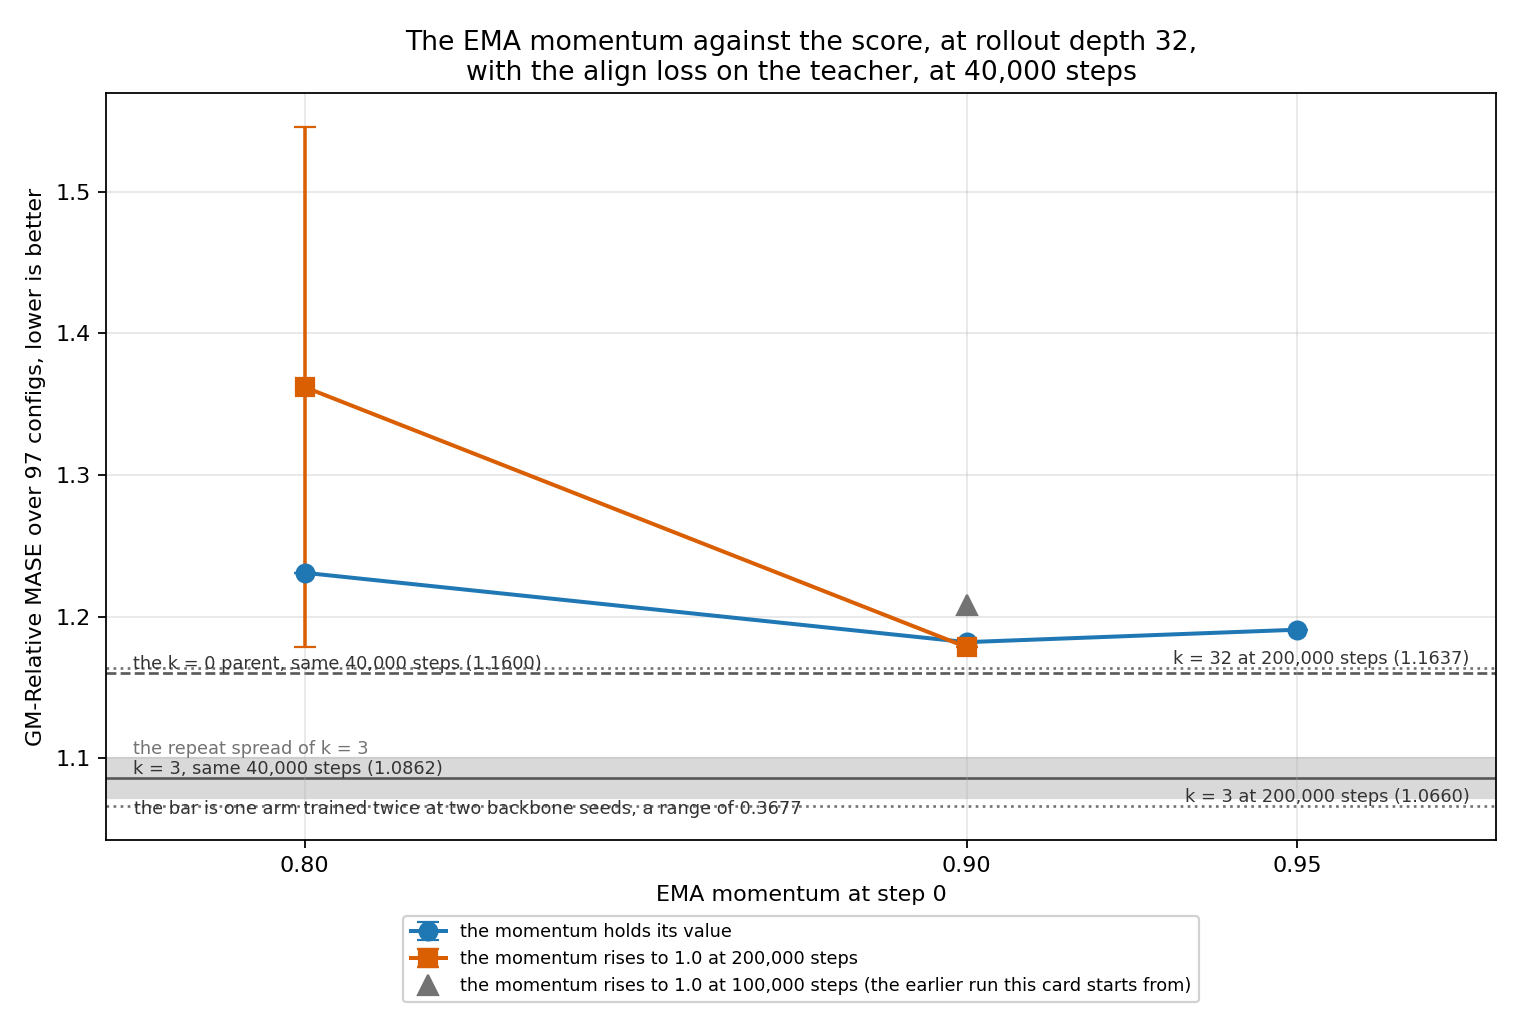
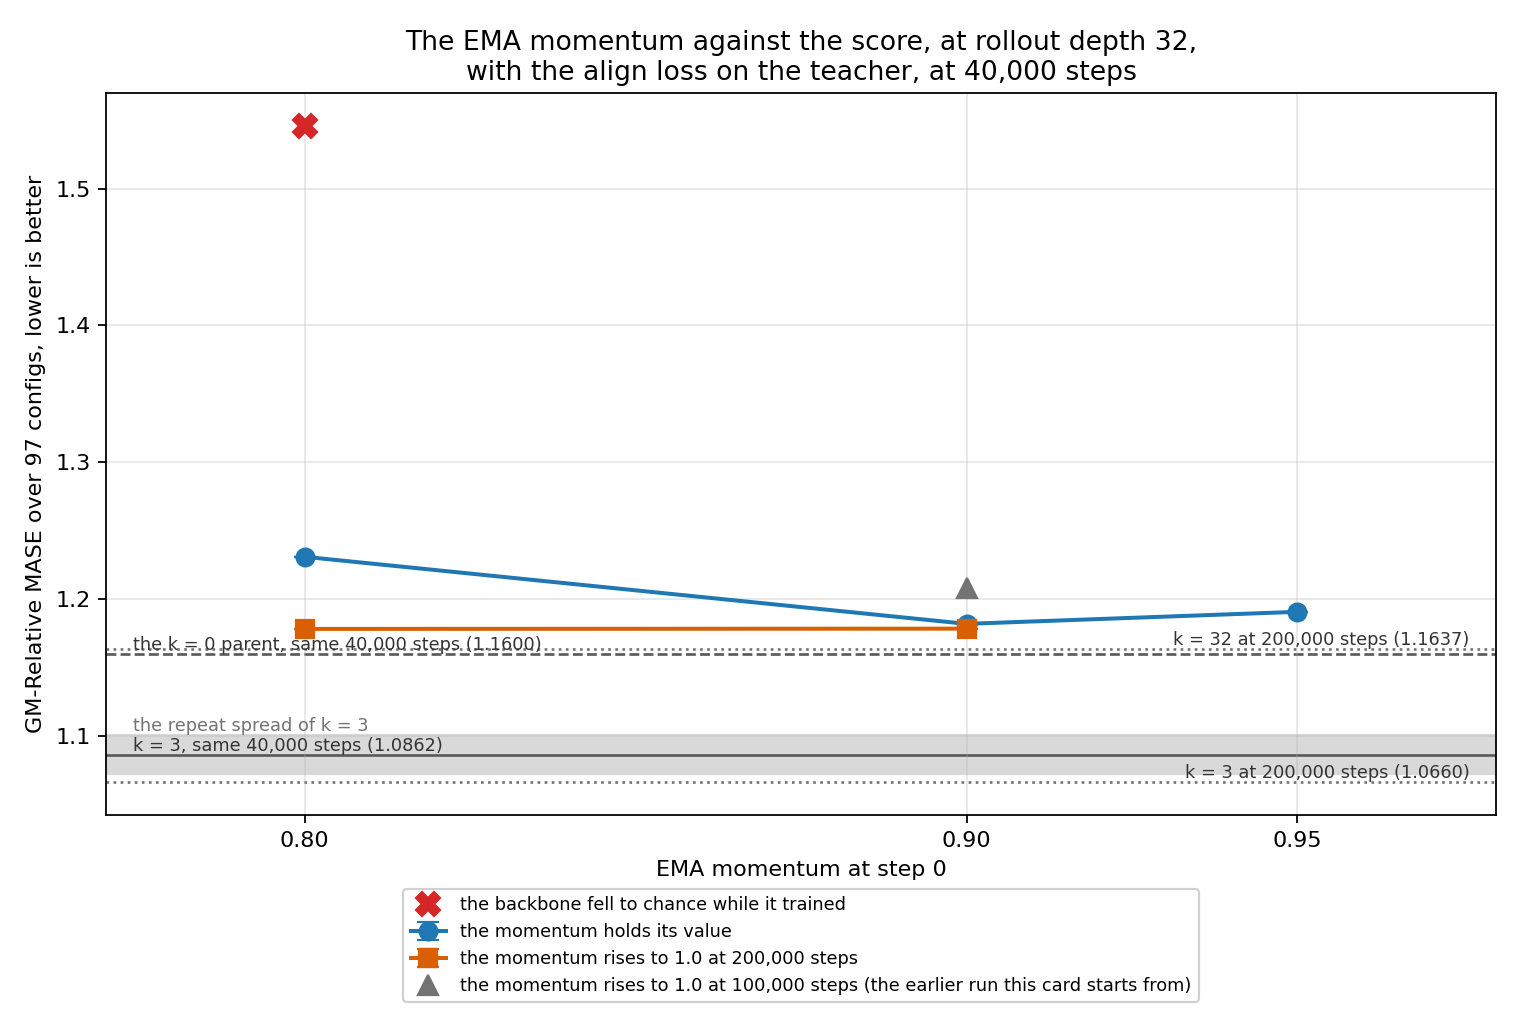
plot(#404): a collapsed run leaves the momentum mean and the spread bar
One backbone of this card fell to chance while it trained. Its score says what
a dead backbone scores, not what its momentum is worth. Inside the mean it
moved a marker, and inside the bar it stretched the spread over every arm.

It now takes a red X off the line, and the bar is drawn from the seeds that
survived. The note under the bar counts the same seeds the bar holds.

The execution log carries round 4: why the round exists, the offer pool that
decided the machine, and what every reader had to learn.

diff --git a/reports/2026-08-19_ema_momentum_k32/scripts/plot_momentum.py b/reports/2026-08-19_ema_momentum_k32/scripts/plot_momentum.py
@@ -9,9 +9,16 @@ square raises it to 1.0 at 200,000 steps.
 A line joins the arms of one schedule, because the momentum is a continuous
 axis and the reader follows the direction.
 
-Two arms that share a momentum and a schedule are a repeat pair. The figure
-draws their mean, and a vertical bar over the two scores. That bar is the
+Two or more arms that share a momentum and a schedule are a repeat family. The
+figure draws their mean, and a vertical bar over their scores. That bar is the
 run-to-run spread this card measures for itself.
+
+A COLLAPSED ARM IS NOT PART OF THAT BAR. One backbone of this card fell to
+chance while it trained, and its score says what a dead backbone scores, not
+what its momentum is worth. Inside the mean it would move a marker, and inside
+the bar it would stretch the spread over every other arm. So it takes its own
+red marker, off the line, and `--sync-root` is what tells the two apart.
+`seed_report.py` holds the study's one definition of a collapse.
 
 The reference lines carry their own text inside the axes. The legend then
 holds the arms alone.
@@ -44,6 +51,7 @@ def _load(name, filename):
 
 REF = _load("cf404_refs", "references.py")
 REPEAT = _load("cf404_repeat", "repeat_spread.py")
+SEEDS = _load("cf404_seeds", "seed_report.py")
 
 # One colour and one marker per schedule. Two schedules, so two of each.
 STYLE = {
@@ -59,6 +67,11 @@ EARLIER = {"colour": "0.45", "marker": "^",
            "label": "the momentum rises to 1.0 at 100,000 steps "
                     "(the earlier run this card starts from)"}
 
+# The arm whose backbone fell to chance. Red, off the line, and out of every
+# mean and every bar.
+FELL = {"colour": "#d62728", "marker": "X",
+        "label": "the backbone fell to chance while it trained"}
+
 
 def read_scores(path) -> list[dict]:
     """The rows of scores.csv, typed. `ramp` is 0 for a held momentum."""
@@ -70,6 +83,7 @@ def read_scores(path) -> list[dict]:
             rows.append({"arm": r["arm"], "alpha": float(r["alpha"]),
                          "schedule": r.get("schedule", "fixed"),
                          "ramp": int(float(r.get("ramp") or 0)),
+                         "seed": r.get("seed", ""),
                          "score": float(r["score"])})
     return sorted(rows, key=lambda r: (r["schedule"], r["alpha"]))
 
@@ -135,13 +149,18 @@ def draw_references(ax, x_lo, x_hi):
             fontsize=8, color="0.45", va="bottom", ha="left", zorder=4)
 
 
-def draw(rows, out):
+def draw(rows, out, fell=()):
     fig, ax = plt.subplots(figsize=(9.5, 6.4))
-    alphas = [r["alpha"] for r in rows] + [REF.K32_BB40K_ALPHA]
+    alphas = [r["alpha"] for r in rows] + [r["alpha"] for r in fell] \
+        + [REF.K32_BB40K_ALPHA]
     x_lo, x_hi = min(alphas) - 0.03, max(alphas) + 0.03
     draw_references(ax, x_lo, x_hi)
     for schedule in ("fixed", "ramp"):
         draw_series(ax, rows, schedule)
+    if fell:
+        ax.plot([r["alpha"] for r in fell], [r["score"] for r in fell],
+                linestyle="none", marker=FELL["marker"], markersize=11,
+                color=FELL["colour"], zorder=4, label=FELL["label"])
     ax.plot([REF.K32_BB40K_ALPHA], [REF.K32_BB40K], linestyle="none",
             marker=EARLIER["marker"], markersize=9, color=EARLIER["colour"],
             zorder=3, label=EARLIER["label"])
@@ -164,20 +183,23 @@ def draw(rows, out):
     fig.tight_layout()
     Path(out).parent.mkdir(parents=True, exist_ok=True)
     fig.savefig(out, dpi=160)
-    print(f"wrote {out} — {len(rows)} arm(s)")
+    print(f"wrote {out} — {len(rows)} arm(s), {len(fell)} collapsed")
     return fig, ax
 
 
 def pair_note(ax, rows):
-    """One line naming the measured repeat spread, when a pair exists."""
-    pairs = REPEAT.pairs(rows)
-    if not pairs:
+    """One line naming the measured repeat spread, when a family exists.
+
+    The number is the range of the bar the reader sees, so it is measured over
+    the same rows the bar is drawn from.
+    """
+    fam = SEEDS.family(rows)
+    d = SEEDS.spread(fam)
+    if d is None:
         return
-    a, b = pairs[0]
-    gap = abs(a["score"] - b["score"])
     ax.text(0.02, 0.03,
-            f"the bar is one arm trained twice at two backbone seeds, "
-            f"a range of {gap:.4f}",
+            f"the bar is one arm trained {len(fam)} times at {len(fam)} "
+            f"backbone seeds, a range of {d:.4f}",
             transform=ax.transAxes, fontsize=8, color="0.20", va="bottom")
 
 
@@ -185,10 +207,22 @@ def main(argv=None):
     p = argparse.ArgumentParser()
     p.add_argument("--scores", required=True)
     p.add_argument("--out", required=True)
+    p.add_argument("--sync-root",
+                   help="the sync tree, to read each arm's contrastive AUC")
+    p.add_argument("--stop", type=int, default=40000)
     args = p.parse_args(argv)
     if not Path(args.scores).is_file():
         raise SystemExit(f"ABORT: no scores table at {args.scores}")
-    draw(read_scores(args.scores), args.out)
+    rows = read_scores(args.scores)
+    fell = []
+    if args.sync_root:
+        root = Path(args.sync_root).expanduser()
+        alive = []
+        for r in rows:
+            auc = SEEDS.auc_at(root, r["arm"], args.stop)
+            (fell if SEEDS.collapsed(auc) else alive).append(r)
+        rows = alive
+    draw(rows, args.out, fell)
     return 0
 
 

diff --git a/reports/2026-08-19_ema_momentum_k32/EXECUTION_LOG.md b/reports/2026-08-19_ema_momentum_k32/EXECUTION_LOG.md
@@ -326,3 +326,91 @@ for: does that spread separate the constant 0.90 arm from the constant 0.95
 arm? `repeat_spread.separation` reads both arms out of `scores.csv` and
 compares their gap against the spread. The test is strict, so a gap equal to
 the spread does not separate.
+
+## Round 4 — four backbone seeds of one arm
+
+### Why the round exists
+
+`s08b` was meant to measure this cell's run-to-run spread. It measured a
+COLLAPSE instead. Its contrastive AUC went 0.91 at 10,000 steps to 0.84, 0.67
+and 0.57 at 40,000. Its top1 went 0.273 to 0.009 and its gap_ratio went 0.772
+to 1.007. Its `ema_tau` trajectory matches `s08` exactly, so the schedule
+reached the trainer, and its eval covered all 97 configs. The arm trained the
+right cell and the backbone died inside it.
+
+Every other arm is stable, AUC 0.93 to 0.98 at 40,000 steps, and all five carry
+backbone seed 20260520. One seed collapsed. Two readings fit that:
+
+  - 20260521 was unlucky, and a collapse here is rare, or
+  - 20260520 was lucky, and this cell is unstable.
+
+Under the second reading every ranking of this card rests on one seed. Two more
+seeds of the SAME arm tell the two apart: `s08c` at 20260522 and `s08d` at
+20260523. Every other flag is `s08`'s.
+
+### The machine, and why it carries one card
+
+The card asks for ONE box with TWO cards, a datacenter host at reliability 0.99
+or better, and a DESKTOP-class CPU. The step rate of this cell is set by the
+CPU and not by the card: #373 measured 5.6 to 6.7 steps/s on a Zen 4 desktop
+part against 1.1 steps/s on an EPYC 7452.
+
+On 2026-08-20 the whole datacenter multi-GPU pool carries SERVER CPUs.
+`results/round4_pool_evidence.txt` holds the search, with no price ceiling:
+
+| GPUs | offers | CPU class | cheapest |
+|---|---|---|---|
+| 2 | 23 rows, every one a server part | EPYC 7763, 7V13, 7452, 9274F, Xeon Gold 6133, Xeon 6767P | $1.0437/h |
+| 1 | 4 of 5 rows are desktop parts | Ryzen 7 7800X3D | $0.3356/h |
+
+At six times the step time the cheapest two-card box needs about 22 hours per
+arm and about $23, against a limit of $7. A two-card server box is SLOWER and
+DEARER than one desktop box, and it breaks the budget.
+
+So `round4.sh` asks the pool for the card's own shape FIRST and falls back to
+one card of the same class. The two arms then share that card. They fit: one
+leg holds 5.7 GB of a 32 GB RTX 5090 and leaves the card at 27 to 34 %
+utilization, so the second leg takes idle silicon. `gpu_gate` returns at once
+on a `Default`-mode card, and the driver refuses an `Exclusive_Process` card,
+where the second lane would die inside `.to(device)`.
+
+### What every reader had to learn
+
+Before this round the tables read `s08` against `s08b`, called their distance
+of 0.3677 "the repeat spread this card measures", and then reported that every
+arm sits within one repeat of the winner. That is not a spread. It is the
+distance between a healthy run and a dead one, and under it the card ranked
+nothing.
+
+`scripts/seed_report.py` now holds the study's ONE definition of a collapse:
+the contrastive AUC at the stop, against a line at 0.80. The five stable arms
+hold 0.93 to 0.98 and the collapsed one holds 0.57, so any line inside that
+band classifies the same arms.
+
+Five readers share that definition and cannot disagree:
+
+  - `plot_backbone_health.py` paints red by the data, not by an arm name.
+  - `plot_momentum.py` keeps a collapsed arm out of every mean and every bar,
+    and gives it a red X off the line.
+  - `make_table.py` gains a seed column and an AUC column.
+  - `pr_comment.py --sync-root` answers the card's four questions.
+  - `make_plots.sh` draws both new outputs, so "redraw every figure" covers
+    them.
+
+### Events
+
+- 09:39 `round4.sh` started, detached, under `nohup setsid`. Credit $13.95. The
+  watchdog holds two ceilings: 14 hours of box life, and $6 of spend.
+- 09:39 the two-card search returned 0 offers under the ceiling. The driver
+  fell back to one card and said so.
+- 09:42 instance 48192413, label `cf404-box-r4`, at ssh9.vast.ai:32412. One RTX
+  5090 in `Default` compute mode, AMD Ryzen 7 7800X3D, 8 threads, 30 GB RAM,
+  datacenter, reliability 0.99 or better.
+- 09:42 the card check read one card at index 0, so both arms take lanes
+  `0 0`. The box printed its own plan and named `s08c` and `s08d` on `gpu=0`.
+- 09:45 bootstrap OK. The box carries this round's arms table.
+- 09:45 the sync loop is up, pid 2588325, local root
+  `/home/jupyter/cf404_sync/box_r4`, 15-minute ticks.
+- 09:42 the round 4 heartbeat loop replaced round 3c's. It follows the round
+  through `ROUND` and reads EVERY live losses CSV, because two lanes run at a
+  time and a probe that reads one file calls a dead lane live.
